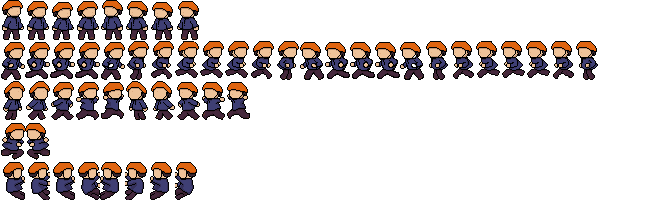
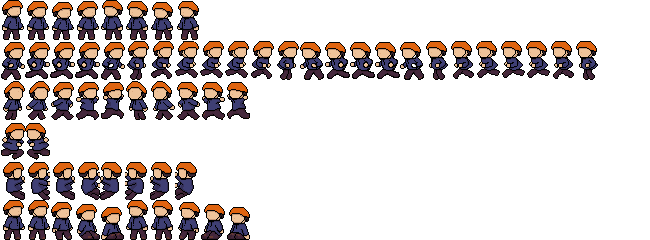
Add “complete” cutscene

diff --git a/src/climb/Level.java b/src/climb/Level.java
@@ -1,8 +1,11 @@
 
 package climb;
 
+import java.awt.AlphaComposite;
 import java.awt.Color;
+import java.awt.Font;
 import java.awt.Graphics;
+import java.awt.Graphics2D;
 import java.awt.event.KeyEvent;
 import java.util.ArrayList;
 
@@ -14,8 +17,9 @@ public class Level {
     private PauseMenu pauseMenu;		    // PauseMenu object
     private Goal goal;				    // Goal area
     
-    private boolean transition, paused, died;	    // Boolean to determine if transitioning, paused, or died
-    private int deathTimer;
+    private boolean transition, paused, died, end;	    // Booleans for certain events
+    private int deathTimer, endTimer;			    // Timers for certain events
+    private int endMessageDisplayTimer;			    // Timer for "COMPLETE" at the end of the level
     
     /**
      * Level Constructor
@@ -27,6 +31,10 @@ public class Level {
 	transition = false;
 	paused = false;
 	died = false;
+	end = false;
+	deathTimer = 0;
+	endTimer = 0;
+	endMessageDisplayTimer = 0;
 
 	Files.loadLevel(this, lvlNum, areaNum);	    // Loads level from file
 	currentArea = areas.get(areaNum);
@@ -91,6 +99,14 @@ public class Level {
     public Player getPlayer() {
 	return player;
     }
+
+    /**
+     * goal Getter
+     * @return goal
+     */
+    public Goal getGoal() {
+	return goal;
+    }
     
     /* METHODS */
     
@@ -147,6 +163,37 @@ public class Level {
 	}
     }
     
+    /**
+     * Cutscene for ending the level
+     */
+    private void endCutscene() {
+	if (endTimer > 60) {
+	    if (Math.abs(player.getX() - goal.getFirePosX()) > 50) {
+		if (player.getX() > goal.getFirePosX()) {
+		    player.manualControl(1);
+		} else {
+		    player.manualControl(2);
+		}
+	    } else {
+		player.manualControl(3);
+	    }
+	} else {
+	    player.manualControl(0);
+	}
+	
+	if (endTimer > 180) {
+	    if (endMessageDisplayTimer < 20) {
+		endMessageDisplayTimer++;
+	    }
+	    
+	    if (game.getKeyMan().typed(KeyEvent.VK_ENTER)) {
+		game.setGameState(1);
+	    }
+	}
+	
+	endTimer++;
+    }
+    
     public void tick() {
 	if (transition) {
 	    transition();
@@ -165,12 +212,19 @@ public class Level {
 	    } else if (deathTimer == 25) {
 		died = false;
 	    }
+	} else if (end) {
+	    endCutscene();
+	    goal.tick();
 	} else {
 	    player.tick();
 	    
 	    if (game.getKeyMan().typed(KeyEvent.VK_ENTER)) {
 		pauseMenu = new PauseMenu(game, 0, 0);
 		paused = true;
+	    }
+	    
+	    if (player.isEnd()) {
+		end = true;
 	    }
 	    
 	    if (player.isDead()) {
@@ -195,8 +249,8 @@ public class Level {
 	}
 	
 	goal.render(g);
-	currentArea.render(g);
 	player.render(g);
+	currentArea.render(g);
 	
 	if (died) {
 	    g.setColor(Color.black);
@@ -205,6 +259,17 @@ public class Level {
 	
 	if (paused) {
 	    pauseMenu.render(g);
+	}
+	
+	if (end) {
+	    Graphics2D g2d = (Graphics2D) g;
+	    g2d.setComposite(AlphaComposite.getInstance(AlphaComposite.SRC_OVER, 0.05f * endMessageDisplayTimer));
+	    g2d.setColor(Color.white);
+	    g2d.setFont(Assets.font.deriveFont(90f));
+	    g2d.drawString("COMPLETE", Camera.x + 50, Camera.y + 100 + endMessageDisplayTimer);
+	    g.setFont(Assets.font.deriveFont(Font.ITALIC, 15f));
+	    g2d.drawString("Press ENTER to continue...", Camera.x + 55, Camera.y + 130 + endMessageDisplayTimer);
+	    g2d.setComposite(AlphaComposite.getInstance(AlphaComposite.SRC_OVER, 1));
 	}
     }
 }

diff --git a/src/climb/Player.java b/src/climb/Player.java
@@ -22,11 +22,13 @@ public class Player extends Object {
     private int boostTimer;			// Timer before boost runs out
     private int jumpTimer, wallJumpTimer;	// Timers for jumps and wall jumps
     
-    private boolean dead;
+    private boolean dead;				    // Boolean to determine if player died
     private ArrayList<DeathParticle> deathParticles;	    // List of death particles
     
-    private Animation stand, run, jumpFall, climb, currentAnim;	    // Player animations
-    private BufferedImage boostImg;				    // Frame of player boosting
+    private boolean end;	// Boolean to determine if player reached the goal
+    
+    private Animation stand, run, jumpFall, climb, sit, currentAnim;	    // Player animations
+    private BufferedImage boostImg;					    // Frame of player boosting
     
     /**
      * Player constructor
@@ -58,10 +60,13 @@ public class Player extends Object {
 	dead = false;
 	deathParticles = new ArrayList<>();
 	
+	end = false;
+	
 	stand = new Animation(Assets.stand, 300, true);
 	run = new Animation(Assets.run, 20, true);
 	jumpFall = new Animation(Assets.jumpFall, 40, false);
 	climb = new Animation(Assets.climb, 30, true);
+	sit = new Animation(Assets.sit, 150, false);
 	currentAnim = stand;
 	boostImg = Assets.boost[0];
     }
@@ -106,6 +111,14 @@ public class Player extends Object {
      */
     public boolean isDead() {
 	return dead;
+    }
+
+    /**
+     * end Getter
+     * @return end
+     */
+    public boolean isEnd() {
+	return end;
     }
     
     /* METHODS */
@@ -257,6 +270,9 @@ public class Player extends Object {
 	currentAnim.tick(facingRight);
     }
     
+    /**
+     * Upon death, launch death particles
+     */
     private void death() {
 	dead = true;
 	deathParticles.add(new DeathParticle(getX() + getWidth() / 2, getY() + getHeight() / 2, 0, -10));
@@ -269,11 +285,43 @@ public class Player extends Object {
 	deathParticles.add(new DeathParticle(getX() + getWidth() / 2, getY() + getHeight() / 2, -8, -8));
     }
     
+    /**
+     * Respawn in specific area and clear all death particles
+     */
     public void respawn() {
 	setX(area.getSpawnX() + area.getPosX());
 	setY(area.getSpawnY() + area.getPosY());
 	deathParticles.clear();
 	dead = false;
+    }
+    
+    /**
+     * Manual control of player through certain events, such as cutscenes
+     * @param input Type of manual event (0 = no event, 1 = walk left, 2 = walk right, 3 = sit)
+     */
+    public void manualControl(int input) {
+	switch (input) {
+	    case 1:	// walk left
+		setAnim(run);
+		velX -= (velX > -5 ? 1 : 0);
+		run.tick(false);
+		setX(getX() + velX);
+		break;
+	    case 2:	// walk right
+		setAnim(run);
+		velX += (velX < 5 ? 1 : 0);
+		run.tick(true);
+		setX(getX() + velX);
+		break;
+	    case 3:	// sit
+		setAnim(sit);
+		sit.tick(facingRight);
+		break;
+	    default:	// no input (case 0)
+		setAnim(stand);
+		stand.tick(facingRight);
+		break;
+	}
     }
     
     @Override
@@ -413,6 +461,14 @@ public class Player extends Object {
 	    if ((grounded || ceiling) && (walledL || walledR)) {
 		break;
 	    }
+	}
+	
+	// If reached the end, trigger it
+	if (grounded && lvl.getGoal().getBounds().intersects(box)) {
+	    boostTimer = 0;
+	    velX = 0;
+	    end = true;
+	    return;
 	}
 	
 	// When sliding down the wall, slow down descent (and update 'facingRight')

diff --git a/src/climb/Goal.java b/src/climb/Goal.java
@@ -1,19 +1,29 @@
 
 package climb;
 
+import java.awt.Color;
 import java.awt.Graphics;
 import java.awt.Rectangle;
 
 public class Goal extends Object {
-    private Rectangle goal;
-    private int tentPosX, tentPosY;
-    private int firePosX, firePosY;
-    private Animation tent, fire;
+    private Rectangle bounds;		// Collision detection
+    private int tentPosX, tentPosY;	// Position of tent
+    private int firePosX, firePosY;	// Position of campfire
+    private Animation tent, fire;	// Animations
     
+    /**
+     * Goal constructor
+     * @param x X coordinate of goal collision
+     * @param y Y coordinate of goal collision
+     * @param width Width of goal collision area
+     * @param height Height of goal collision area
+     * @param tentPosX X coordinate of tent
+     * @param firePosX X coordinate of campfire
+     */
     public Goal(int x, int y, int width, int height, int tentPosX, int firePosX) {
 	super(x, y, width, height);
 	
-	goal = new Rectangle(x, y, width, height);
+	bounds = new Rectangle(x, y, width, height);
 	
 	this.tentPosX = tentPosX;
 	tentPosY = y + height - 66;
@@ -23,6 +33,26 @@ public class Goal extends Object {
 	tent = new Animation(Assets.tent, 150, true);
 	fire = new Animation(Assets.campfire, 90, true);
     }
+    
+    /* GETTERS */
+
+    /**
+     * bounds Getter
+     * @return bounds
+     */
+    public Rectangle getBounds() {
+	return bounds;
+    }
+
+    /**
+     * firePosX Getter
+     * @return firePosX
+     */
+    public int getFirePosX() {
+	return firePosX;
+    }
+    
+    /* METHODS */
 
     @Override
     public void tick() {
@@ -32,6 +62,8 @@ public class Goal extends Object {
 
     @Override
     public void render(Graphics g) {
+//	g.setColor(Color.red);
+//	g.drawRect(x, y, width, height);
 	g.drawImage(tent.getCurrentFrame(), tentPosX, tentPosY, 126, 66, null);
 	g.drawImage(fire.getCurrentFrame(), firePosX, firePosY, 40, 64, null);
     }

diff --git a/src/climb/Assets.java b/src/climb/Assets.java
@@ -21,7 +21,7 @@ public class Assets {
     public static BufferedImage spikes[];	    // Images for spikes
     public static BufferedImage tent[], campfire[];	// Animation sprites for goal
     
-    public static BufferedImage stand[], run[], jumpFall[], boost[], climb[];	    // Animation frames for players
+    public static BufferedImage stand[], run[], jumpFall[], boost[], climb[], sit[];	    // Animation frames for players
     public static BufferedImage deathParticle[];    // Player death particles
     
     /**
@@ -100,6 +100,10 @@ public class Assets {
 	climb = new BufferedImage[8];
 	for (int i = 0; i < 8; i++) {
 	    climb[i] = ss.crop(i * 25, 160, 25, 40);
+	}
+	sit = new BufferedImage[10];
+	for (int i = 0; i < 10; i++) {
+	    sit[i] = ss.crop(i * 25, 200, 25, 40);
 	}
 	
 	ss = new Spritesheet(ImageLoader.loadImage("/images/deathParticle.png"));

diff --git a/src/climb/Animation.java b/src/climb/Animation.java
@@ -129,10 +129,12 @@ public class Animation {
 	
 	if (timer > speed) {
 	    timer = 0;
-	    if (loop) {
-		index++;
-		if (index >= end) {
+	    index++;
+	    if (index >= end) {
+		if (loop) {
 		    index = start;
+		} else {
+		    index--;
 		}
 	    }
 	}
